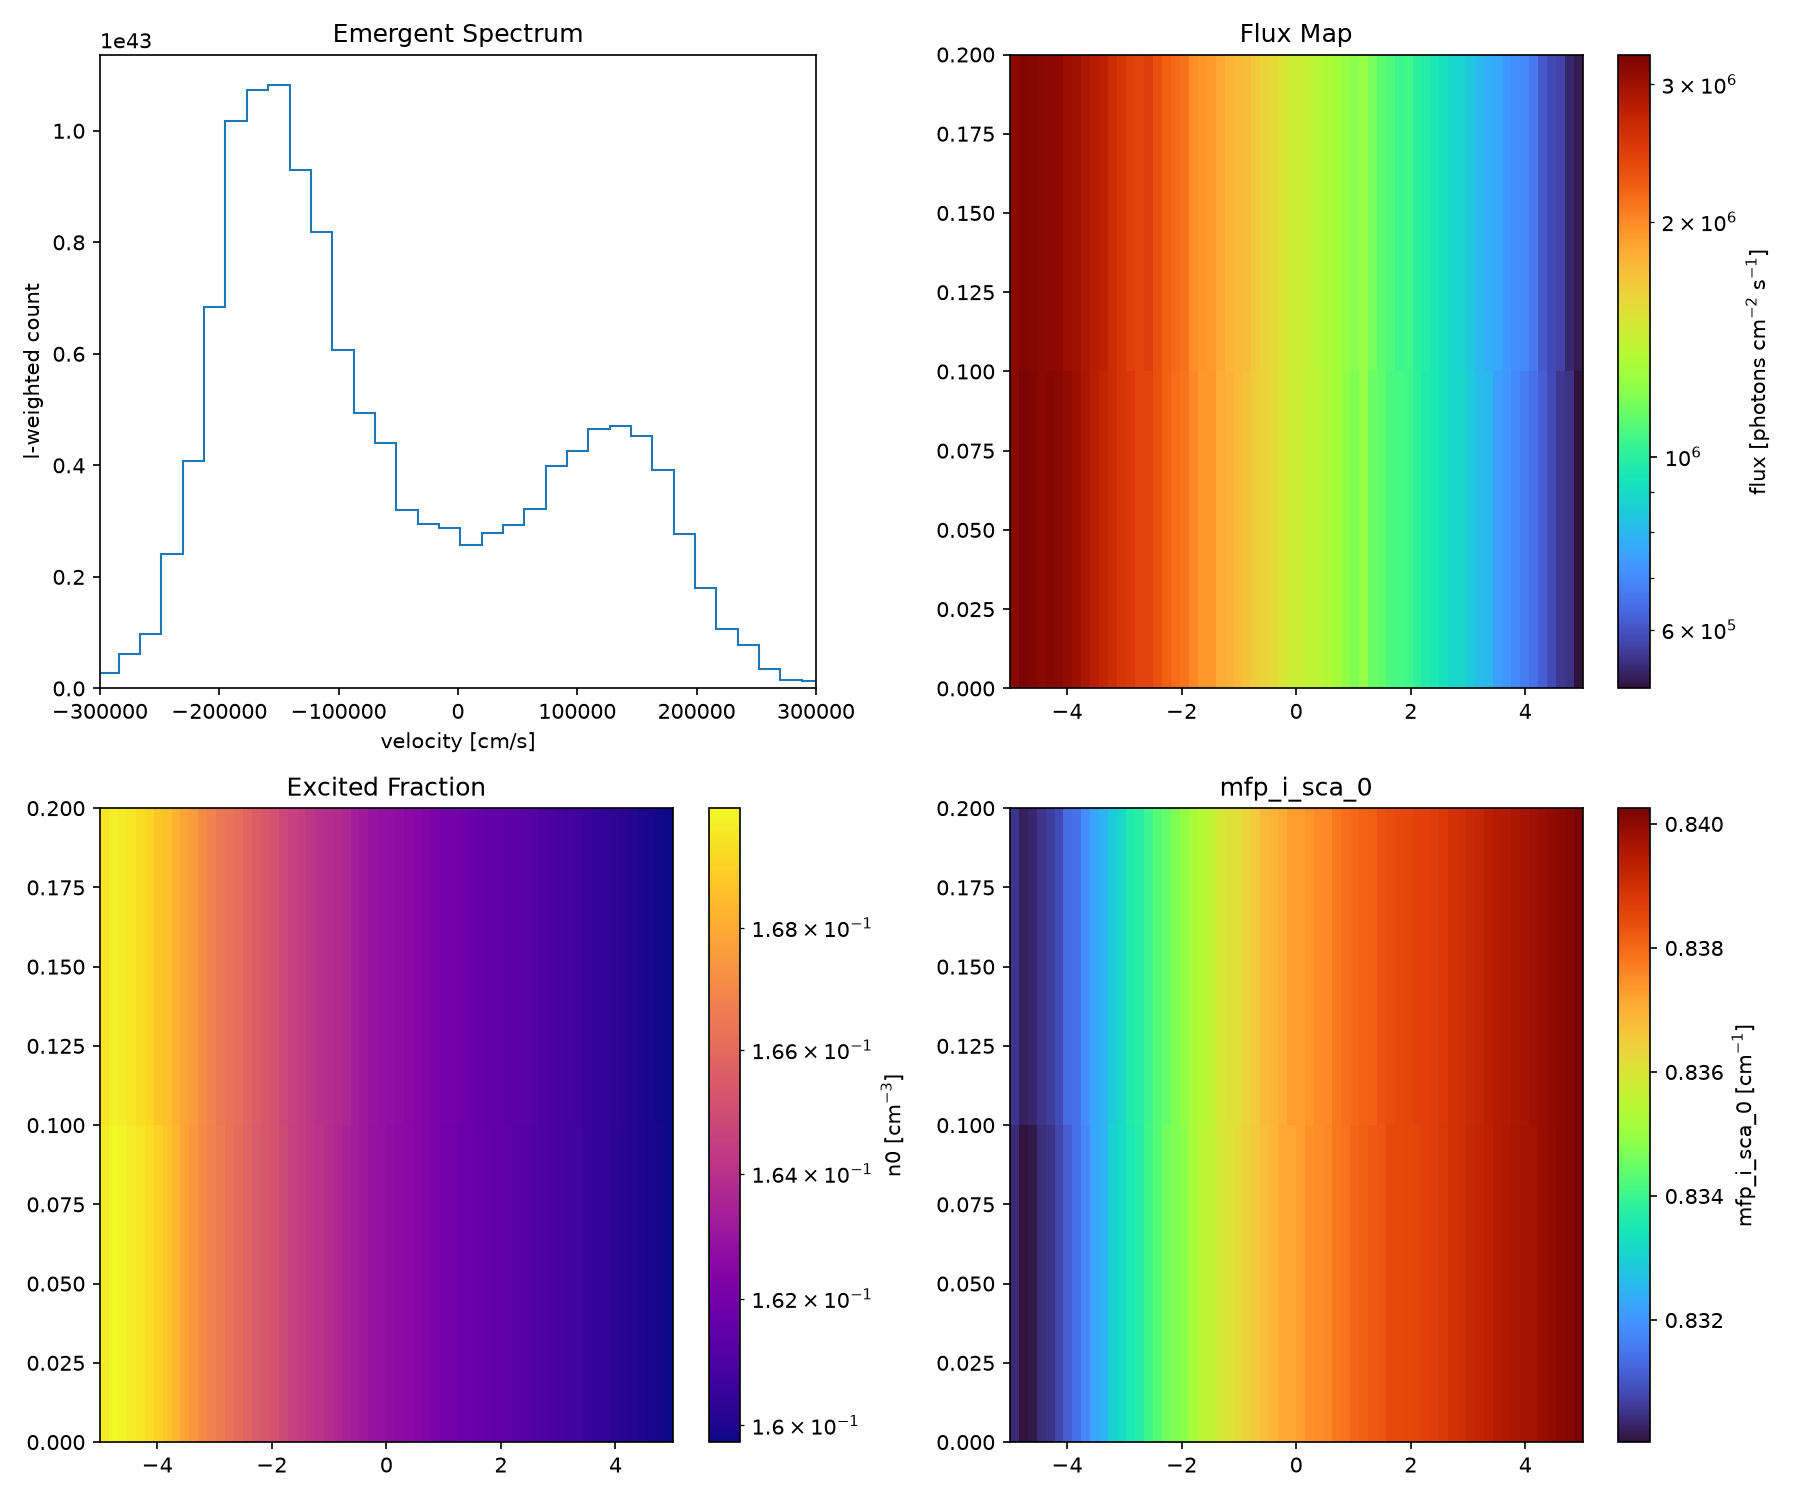
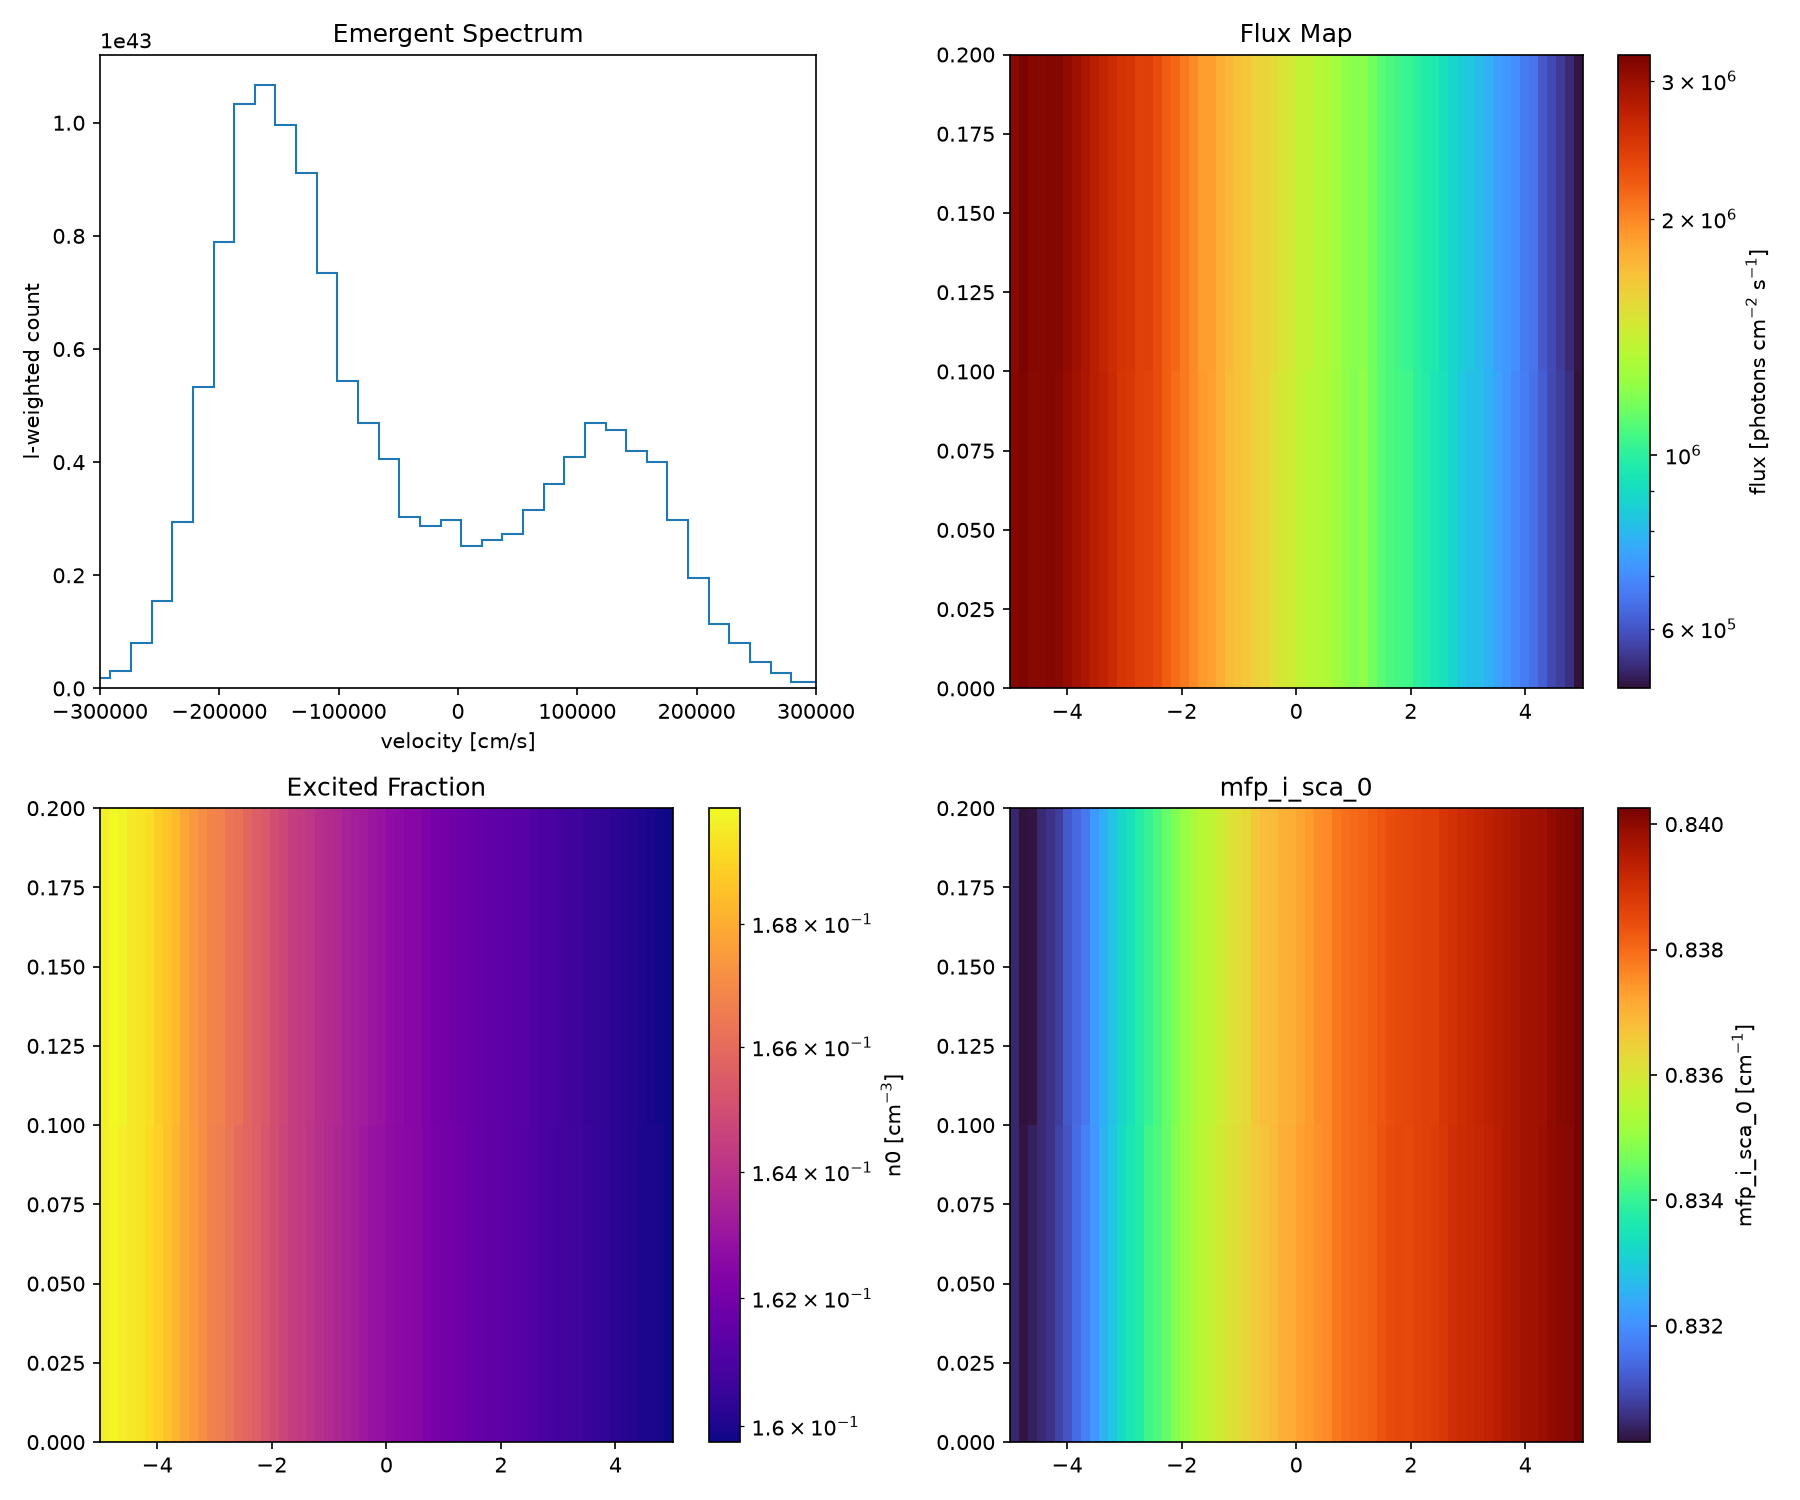
feat: store emissivity in cycle output, show in example lower-right panel
- iterator.py: compute_emissivity() called before generate_emission_photons,
  stored as output['emissivity'] (3D array, erg/s/cm^3/sr).
- plane_parallel_hl.py: n_cycle 1->3, lower-right panel now shows emissivity
  (falls back to mfp_i_sca_0 when no species/last cycle).
- plane_parallel_lowlevel.py: same emissivity panel + fallback.
- plane_parallel_hl.ipynb: added emissivity slice section.

diff --git a/docs/examples/plane_parallel_hl.py b/docs/examples/plane_parallel_hl.py
@@ -42,11 +42,11 @@ tr_idx = co.find_transition_idx(tr)
 sigma_co = co.cross_section(0, b_sca)
 L_slab_cm = 10.0 * AU   # x_min=-5, x_max=5 -> L=10 AU
 n_species = (tau0_slab / L_slab_cm) / sigma_co   # cm^-3
-n_cycle   = 1
+n_cycle   = 3
 
 def n_total_callable(X, Y, Z):
     res = np.full(X.shape, n_species, dtype=np.float64);
-    res[X > 0.10 * AU] *= 1e1;
+    res[X > 0] *= 1e2;
     return res;
 
 def temperature_callable(X, Y, Z):
@@ -56,9 +56,9 @@ def vx_callable(X, Y, Z):
     return np.zeros(X.shape, dtype=np.float64)
 
 rt = LineRt(
-    n_cell=(64, 4, 2),
-    x_min=(-5, 0, 0),
-    x_max=(5, 0.2, 0.2),
+    n_cell=(64, 16, 2),
+    x_min=(-8, -2, 0),
+    x_max=( 8, 2, 0.2),
     unit_l0=AU, unit_t0=1.0,
 
     species="CO", transition_idx=tr_idx,
@@ -78,7 +78,7 @@ rt.set_boundary("fre fre per per per per")
 # Lowlevel: F0 = 1e6 photon/cm^2/s, sv = b_sca/sqrt(2), x=-4.999
 F0_cgs = 1e6   # photon number flux [photons cm^-2 s^-1]
 rt.add_source(
-    type="slab", x=-4.999, direction="+x",
+    type="slab", x=-5, direction="+x",
     n_photon=20000,
     flux=F0_cgs,            # photon number flux (no wavelength)
     sigma=b_sca / np.sqrt(2),
@@ -101,18 +101,22 @@ if "photons" in res_list[-1]:
 axes[0, 0].set_title("Emergent Spectrum")
 
 plot_flux_slice(axes[0, 1], res_list[-1]["flx"], mesh, title="Flux Map", slice_idx = 0)
-plot_flux_slice(axes[1, 0], res_list[-1]["flx"], mesh, title="Flux Map", slice_idx = 1)
 
-# final_pops = results["populations"]
-# if len(final_pops) >= 2:
-#     vals = list(final_pops.values())
-#     n_g, n_e = vals[0], vals[1]
-#     plot_population_map(axes[1, 0], n_e / (n_g + n_e + 1e-30), mesh, title="Excited Fraction")
+final_pops = results["populations"]
+if len(final_pops) >= 2:
+    vals = list(final_pops.values())
+    n_g, n_e = vals[0], vals[1]
+    plot_population_map(axes[1, 0], n_e / (n_g + n_e + 1e-30), mesh, title="Excited Fraction")
 
-mfp_sca = res_list[-1].get("mfp_i_sca_0")
-if mfp_sca is not None:
-    plot_flux_slice(axes[1, 1], mfp_sca, mesh, title="mfp_i_sca_0",
-                    log=False, cbar_label=r"mfp_i_sca_0 [cm$^{-1}$]")
+emis = res_list[-1].get("emissivity")
+if emis is not None:
+    plot_flux_slice(axes[1, 1], emis, mesh, title="Emissivity",
+                    log=True, cbar_label=r"$\epsilon$ [erg s$^{-1}$ cm$^{-3}$ sr$^{-1}$]")
+else:
+    mfp_sca = res_list[-1].get("mfp_i_sca_0")
+    if mfp_sca is not None:
+        plot_flux_slice(axes[1, 1], mfp_sca, mesh, title="mfp_i_sca_0",
+                        log=False, cbar_label=r"mfp_i_sca_0 [cm$^{-1}$]")
 
 fig.tight_layout()
 outpath = os.path.join(os.path.dirname(__file__), "plane_parallel_hl_results.png")

diff --git a/docs/examples/plane_parallel_lowlevel.py b/docs/examples/plane_parallel_lowlevel.py
@@ -116,10 +116,15 @@ if len(final_pops) >= 2:
     n_g, n_e = vals[0], vals[1]
     plot_population_map(axes[1, 0], n_e / (n_g + n_e + 1e-30), mesh, title="Excited Fraction")
 
-mfp_sca = results[-1].get("mfp_i_sca_0")
-if mfp_sca is not None:
-    plot_flux_slice(axes[1, 1], mfp_sca, mesh, title="mfp_i_sca_0",
-                    log=False, cbar_label=r"mfp_i_sca_0 [cm$^{-1}$]")
+emis = results[-1].get("emissivity")
+if emis is not None:
+    plot_flux_slice(axes[1, 1], emis, mesh, title="Emissivity",
+                    log=True, cbar_label=r"$\epsilon$ [erg s$^{-1}$ cm$^{-3}$ sr$^{-1}$]")
+else:
+    mfp_sca = results[-1].get("mfp_i_sca_0")
+    if mfp_sca is not None:
+        plot_flux_slice(axes[1, 1], mfp_sca, mesh, title="mfp_i_sca_0",
+                        log=False, cbar_label=r"mfp_i_sca_0 [cm$^{-1}$]")
 
 fig.tight_layout()
 outpath = os.path.join(os.path.dirname(__file__), "plane_parallel_lowlevel_results.png")

diff --git a/core/iterator.py b/core/iterator.py
@@ -181,6 +181,8 @@ def iterate(source_photons, species, fields_init, mesh, n_cycles=5,
         if species is not None and hasattr(species, "generate_emission_photons") and cycle < n_cycles - 1:
             temp_field = fields.get('temp', np.zeros(mesh['n_tot'],
                                                      dtype=np.float64))
+            output['emissivity'] = species.compute_emissivity(
+                populations, transition_idx, temp_field)
             emission_ph = species.generate_emission_photons(
                 populations, transition_idx, temp_field, mesh,
                 n_per_cell_max=n_emission_max)
